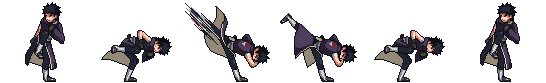
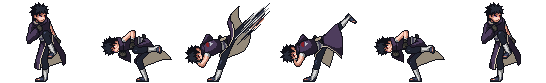
Obito up-attack: flip mirrored kick sprite to face right (matches engine facing convention)
obito_up_uniform.png was authored facing LEFT while all his other sheets face
right, so the up-attack kick rendered reversed vs his facing in BOTH directions
(hitbox was already correct). Flipped each of the 6 frame cells horizontally in
place (order/dimensions preserved) so it faces right like the rest of his kit.

diff --git a/index.html b/index.html
@@ -1,7 +1,7 @@
 <!DOCTYPE html>
 
 <html lang="en">
-///<head>
+/<head>
     <meta charset="UTF-8">
 
     <!-- Mobile -->
@@ -261,151 +261,151 @@
     <script type="importmap">
     {
       "imports": {
-            "./abilities.js": "./abilities.js?v=5b558e2f7b",
-            "./account.js": "./account.js?v=5b558e2f7b",
-            "./ai.js": "./ai.js?v=5b558e2f7b",
-            "./aiTemplates.js": "./aiTemplates.js?v=5b558e2f7b",
-            "./alt_sukunaVoice.js": "./alt_sukunaVoice.js?v=5b558e2f7b",
-            "./animation.js": "./animation.js?v=5b558e2f7b",
-            "./animationProfile.js": "./animationProfile.js?v=5b558e2f7b",
-            "./arcade.js": "./arcade.js?v=5b558e2f7b",
-            "./batmanDarkKnightCinematic.js": "./batmanDarkKnightCinematic.js?v=5b558e2f7b",
-            "./batmanVoice.js": "./batmanVoice.js?v=5b558e2f7b",
-            "./beerusKiBallCinematic.js": "./beerusKiBallCinematic.js?v=5b558e2f7b",
-            "./ben10OmnitrixCinematic.js": "./ben10OmnitrixCinematic.js?v=5b558e2f7b",
-            "./bindingvow.js": "./bindingvow.js?v=5b558e2f7b",
-            "./borutoVoice.js": "./borutoVoice.js?v=5b558e2f7b",
-            "./camera.js": "./camera.js?v=5b558e2f7b",
-            "./challenges.js": "./challenges.js?v=5b558e2f7b",
-            "./characters.js": "./characters.js?v=5b558e2f7b",
-            "./chrolloSkillHunterCinematic.js": "./chrolloSkillHunterCinematic.js?v=5b558e2f7b",
-            "./chrolloVoice.js": "./chrolloVoice.js?v=5b558e2f7b",
-            "./combat.js": "./combat.js?v=5b558e2f7b",
-            "./comboStandard.js": "./comboStandard.js?v=5b558e2f7b",
-            "./credits.js": "./credits.js?v=5b558e2f7b",
-            "./cubeTrap.js": "./cubeTrap.js?v=5b558e2f7b",
-            "./domains.js": "./domains.js?v=5b558e2f7b",
-            "./effects.js": "./effects.js?v=5b558e2f7b",
-            "./endings.js": "./endings.js?v=5b558e2f7b",
-            "./fighters.js": "./fighters.js?v=5b558e2f7b",
-            "./flashReverseVoice.js": "./flashReverseVoice.js?v=5b558e2f7b",
-            "./flashTimeCinematic.js": "./flashTimeCinematic.js?v=5b558e2f7b",
-            "./flashVoice.js": "./flashVoice.js?v=5b558e2f7b",
-            "./game.js": "./game.js?v=5b558e2f7b",
-            "./ghostfaceFinalActCinematic.js": "./ghostfaceFinalActCinematic.js?v=5b558e2f7b",
-            "./ghostfaceVariantKit.js": "./ghostfaceVariantKit.js?v=5b558e2f7b",
-            "./ghostfaceVoice.js": "./ghostfaceVoice.js?v=5b558e2f7b",
-            "./gojoVoice.js": "./gojoVoice.js?v=5b558e2f7b",
-            "./gokuBlackSwordCinematic.js": "./gokuBlackSwordCinematic.js?v=5b558e2f7b",
-            "./goldSamuraiRangerVoice.js": "./goldSamuraiRangerVoice.js?v=5b558e2f7b",
-            "./gonAdultFormCinematic.js": "./gonAdultFormCinematic.js?v=5b558e2f7b",
-            "./gonVoice.js": "./gonVoice.js?v=5b558e2f7b",
-            "./harness/alt_skin_manifest.mjs": "./harness/alt_skin_manifest.mjs?v=5b558e2f7b",
-            "./hashiramaSealingJutsuCinematic.js": "./hashiramaSealingJutsuCinematic.js?v=5b558e2f7b",
-            "./hashiramaVoice.js": "./hashiramaVoice.js?v=5b558e2f7b",
-            "./hiruzenVoice.js": "./hiruzenVoice.js?v=5b558e2f7b",
-            "./hisokaOverdriveCinematic.js": "./hisokaOverdriveCinematic.js?v=5b558e2f7b",
-            "./hisokaVoice.js": "./hisokaVoice.js?v=5b558e2f7b",
-            "./ichigoGetsugaTenshoCinematic.js": "./ichigoGetsugaTenshoCinematic.js?v=5b558e2f7b",
-            "./ichigoVoice.js": "./ichigoVoice.js?v=5b558e2f7b",
-            "./inosukeBeastCinematic.js": "./inosukeBeastCinematic.js?v=5b558e2f7b",
-            "./inosukeVoice.js": "./inosukeVoice.js?v=5b558e2f7b",
-            "./input.js": "./input.js?v=5b558e2f7b",
-            "./isshikiVoice.js": "./isshikiVoice.js?v=5b558e2f7b",
-            "./itachiVoice.js": "./itachiVoice.js?v=5b558e2f7b",
-            "./jasonVoice.js": "./jasonVoice.js?v=5b558e2f7b",
-            "./kibaVoice.js": "./kibaVoice.js?v=5b558e2f7b",
-            "./killuaGodspeedCinematic.js": "./killuaGodspeedCinematic.js?v=5b558e2f7b",
-            "./killuaVoice.js": "./killuaVoice.js?v=5b558e2f7b",
-            "./kits.js": "./kits.js?v=5b558e2f7b",
-            "./kurama.js": "./kurama.js?v=5b558e2f7b",
-            "./lightVoice.js": "./lightVoice.js?v=5b558e2f7b",
-            "./madaraTengaiShinseiCinematic.js": "./madaraTengaiShinseiCinematic.js?v=5b558e2f7b",
-            "./madaraVoice.js": "./madaraVoice.js?v=5b558e2f7b",
-            "./makiShibuyaCinematic.js": "./makiShibuyaCinematic.js?v=5b558e2f7b",
-            "./makiVoice.js": "./makiVoice.js?v=5b558e2f7b",
-            "./mangekyouCinematic.js": "./mangekyouCinematic.js?v=5b558e2f7b",
-            "./matchEntryTransition.js": "./matchEntryTransition.js?v=5b558e2f7b",
-            "./matchflow.js": "./matchflow.js?v=5b558e2f7b",
-            "./mayuriVoice.js": "./mayuriVoice.js?v=5b558e2f7b",
-            "./minatoKurama.js": "./minatoKurama.js?v=5b558e2f7b",
-            "./minatoVoice.js": "./minatoVoice.js?v=5b558e2f7b",
-            "./miwaUltimateCinematic.js": "./miwaUltimateCinematic.js?v=5b558e2f7b",
-            "./miwaVoice.js": "./miwaVoice.js?v=5b558e2f7b",
-            "./motionInput.js": "./motionInput.js?v=5b558e2f7b",
-            "./moveset.js": "./moveset.js?v=5b558e2f7b",
-            "./musicLibrary.js": "./musicLibrary.js?v=5b558e2f7b",
-            "./musicPersonality.js": "./musicPersonality.js?v=5b558e2f7b",
-            "./naoyaVoice.js": "./naoyaVoice.js?v=5b558e2f7b",
-            "./nezukoVoice.js": "./nezukoVoice.js?v=5b558e2f7b",
-            "./obitoDimension.js": "./obitoDimension.js?v=5b558e2f7b",
-            "./obitoJuubiCinematic.js": "./obitoJuubiCinematic.js?v=5b558e2f7b",
-            "./obitoVoice.js": "./obitoVoice.js?v=5b558e2f7b",
-            "./omnimanBodySlamCinematic.js": "./omnimanBodySlamCinematic.js?v=5b558e2f7b",
-            "./omnimanVoice.js": "./omnimanVoice.js?v=5b558e2f7b",
-            "./orochimaruVoice.js": "./orochimaruVoice.js?v=5b558e2f7b",
-            "./painChibakuTenseiCinematic.js": "./painChibakuTenseiCinematic.js?v=5b558e2f7b",
-            "./painVoice.js": "./painVoice.js?v=5b558e2f7b",
-            "./personality.js": "./personality.js?v=5b558e2f7b",
-            "./physics.js": "./physics.js?v=5b558e2f7b",
-            "./platforms.js": "./platforms.js?v=5b558e2f7b",
-            "./player.js": "./player.js?v=5b558e2f7b",
-            "./pool.js": "./pool.js?v=5b558e2f7b",
-            "./preloadManifest.js": "./preloadManifest.js?v=5b558e2f7b",
-            "./progression.js": "./progression.js?v=5b558e2f7b",
-            "./projectiles.js": "./projectiles.js?v=5b558e2f7b",
-            "./redRangerPowerSwordCinematic.js": "./redRangerPowerSwordCinematic.js?v=5b558e2f7b",
-            "./rengokuFlameExplosionCinematic.js": "./rengokuFlameExplosionCinematic.js?v=5b558e2f7b",
-            "./rengokuVoice.js": "./rengokuVoice.js?v=5b558e2f7b",
-            "./replay.js": "./replay.js?v=5b558e2f7b",
-            "./rickVoice.js": "./rickVoice.js?v=5b558e2f7b",
-            "./riftTransition.js": "./riftTransition.js?v=5b558e2f7b",
-            "./rng.js": "./rng.js?v=5b558e2f7b",
-            "./roster.js": "./roster.js?v=5b558e2f7b",
-            "./saikiVoice.js": "./saikiVoice.js?v=5b558e2f7b",
-            "./saitamaVoice.js": "./saitamaVoice.js?v=5b558e2f7b",
-            "./samuraiFlameSmasherCinematic.js": "./samuraiFlameSmasherCinematic.js?v=5b558e2f7b",
-            "./samuraiRedVoice.js": "./samuraiRedVoice.js?v=5b558e2f7b",
-            "./sasukeCinematic.js": "./sasukeCinematic.js?v=5b558e2f7b",
-            "./session.js": "./session.js?v=5b558e2f7b",
-            "./shinobuButterflyCinematic.js": "./shinobuButterflyCinematic.js?v=5b558e2f7b",
-            "./shinobuVoice.js": "./shinobuVoice.js?v=5b558e2f7b",
-            "./skins.js": "./skins.js?v=5b558e2f7b",
-            "./sound.js": "./sound.js?v=5b558e2f7b",
-            "./spectator.js": "./spectator.js?v=5b558e2f7b",
-            "./spidermanVoice.js": "./spidermanVoice.js?v=5b558e2f7b",
-            "./sprite.js": "./sprite.js?v=5b558e2f7b",
-            "./spritesheets.js": "./spritesheets.js?v=5b558e2f7b",
-            "./ssjRoseCinematic.js": "./ssjRoseCinematic.js?v=5b558e2f7b",
-            "./stageHazards.js": "./stageHazards.js?v=5b558e2f7b",
-            "./story.js": "./story.js?v=5b558e2f7b",
-            "./storyProgress.js": "./storyProgress.js?v=5b558e2f7b",
-            "./sukunaVoice.js": "./sukunaVoice.js?v=5b558e2f7b",
-            "./summons.js": "./summons.js?v=5b558e2f7b",
-            "./supermanUltimateCinematic.js": "./supermanUltimateCinematic.js?v=5b558e2f7b",
-            "./supermanVoice.js": "./supermanVoice.js?v=5b558e2f7b",
-            "./theme.js": "./theme.js?v=5b558e2f7b",
-            "./tobiNineTailsCinematic.js": "./tobiNineTailsCinematic.js?v=5b558e2f7b",
-            "./tobiVoice.js": "./tobiVoice.js?v=5b558e2f7b",
-            "./tobiramaEdoTenseiCinematic.js": "./tobiramaEdoTenseiCinematic.js?v=5b558e2f7b",
-            "./tobiramaVoice.js": "./tobiramaVoice.js?v=5b558e2f7b",
-            "./tojiFlyHeadsSwarm.js": "./tojiFlyHeadsSwarm.js?v=5b558e2f7b",
-            "./tojiReincarnationCinematic.js": "./tojiReincarnationCinematic.js?v=5b558e2f7b",
-            "./tojiVoice.js": "./tojiVoice.js?v=5b558e2f7b",
-            "./transformations.js": "./transformations.js?v=5b558e2f7b",
-            "./ui.js": "./ui.js?v=5b558e2f7b",
-            "./unlocks.js": "./unlocks.js?v=5b558e2f7b",
-            "./vegetaFinalFlashCinematic.js": "./vegetaFinalFlashCinematic.js?v=5b558e2f7b",
-            "./vegetaVoice.js": "./vegetaVoice.js?v=5b558e2f7b",
-            "./yamamotoVoice.js": "./yamamotoVoice.js?v=5b558e2f7b",
-            "./yujiUltimateCinematic.js": "./yujiUltimateCinematic.js?v=5b558e2f7b",
-            "./yujiVoice.js": "./yujiVoice.js?v=5b558e2f7b",
-            "./zarakiVoice.js": "./zarakiVoice.js?v=5b558e2f7b",
-            "./zenitsuVoice.js": "./zenitsuVoice.js?v=5b558e2f7b"
+            "./abilities.js": "./abilities.js?v=91237e7d96",
+            "./account.js": "./account.js?v=91237e7d96",
+            "./ai.js": "./ai.js?v=91237e7d96",
+            "./aiTemplates.js": "./aiTemplates.js?v=91237e7d96",
+            "./alt_sukunaVoice.js": "./alt_sukunaVoice.js?v=91237e7d96",
+            "./animation.js": "./animation.js?v=91237e7d96",
+            "./animationProfile.js": "./animationProfile.js?v=91237e7d96",
+            "./arcade.js": "./arcade.js?v=91237e7d96",
+            "./batmanDarkKnightCinematic.js": "./batmanDarkKnightCinematic.js?v=91237e7d96",
+            "./batmanVoice.js": "./batmanVoice.js?v=91237e7d96",
+            "./beerusKiBallCinematic.js": "./beerusKiBallCinematic.js?v=91237e7d96",
+            "./ben10OmnitrixCinematic.js": "./ben10OmnitrixCinematic.js?v=91237e7d96",
+            "./bindingvow.js": "./bindingvow.js?v=91237e7d96",
+            "./borutoVoice.js": "./borutoVoice.js?v=91237e7d96",
+            "./camera.js": "./camera.js?v=91237e7d96",
+            "./challenges.js": "./challenges.js?v=91237e7d96",
+            "./characters.js": "./characters.js?v=91237e7d96",
+            "./chrolloSkillHunterCinematic.js": "./chrolloSkillHunterCinematic.js?v=91237e7d96",
+            "./chrolloVoice.js": "./chrolloVoice.js?v=91237e7d96",
+            "./combat.js": "./combat.js?v=91237e7d96",
+            "./comboStandard.js": "./comboStandard.js?v=91237e7d96",
+            "./credits.js": "./credits.js?v=91237e7d96",
+            "./cubeTrap.js": "./cubeTrap.js?v=91237e7d96",
+            "./domains.js": "./domains.js?v=91237e7d96",
+            "./effects.js": "./effects.js?v=91237e7d96",
+            "./endings.js": "./endings.js?v=91237e7d96",
+            "./fighters.js": "./fighters.js?v=91237e7d96",
+            "./flashReverseVoice.js": "./flashReverseVoice.js?v=91237e7d96",
+            "./flashTimeCinematic.js": "./flashTimeCinematic.js?v=91237e7d96",
+            "./flashVoice.js": "./flashVoice.js?v=91237e7d96",
+            "./game.js": "./game.js?v=91237e7d96",
+            "./ghostfaceFinalActCinematic.js": "./ghostfaceFinalActCinematic.js?v=91237e7d96",
+            "./ghostfaceVariantKit.js": "./ghostfaceVariantKit.js?v=91237e7d96",
+            "./ghostfaceVoice.js": "./ghostfaceVoice.js?v=91237e7d96",
+            "./gojoVoice.js": "./gojoVoice.js?v=91237e7d96",
+            "./gokuBlackSwordCinematic.js": "./gokuBlackSwordCinematic.js?v=91237e7d96",
+            "./goldSamuraiRangerVoice.js": "./goldSamuraiRangerVoice.js?v=91237e7d96",
+            "./gonAdultFormCinematic.js": "./gonAdultFormCinematic.js?v=91237e7d96",
+            "./gonVoice.js": "./gonVoice.js?v=91237e7d96",
+            "./harness/alt_skin_manifest.mjs": "./harness/alt_skin_manifest.mjs?v=91237e7d96",
+            "./hashiramaSealingJutsuCinematic.js": "./hashiramaSealingJutsuCinematic.js?v=91237e7d96",
+            "./hashiramaVoice.js": "./hashiramaVoice.js?v=91237e7d96",
+            "./hiruzenVoice.js": "./hiruzenVoice.js?v=91237e7d96",
+            "./hisokaOverdriveCinematic.js": "./hisokaOverdriveCinematic.js?v=91237e7d96",
+            "./hisokaVoice.js": "./hisokaVoice.js?v=91237e7d96",
+            "./ichigoGetsugaTenshoCinematic.js": "./ichigoGetsugaTenshoCinematic.js?v=91237e7d96",
+            "./ichigoVoice.js": "./ichigoVoice.js?v=91237e7d96",
+            "./inosukeBeastCinematic.js": "./inosukeBeastCinematic.js?v=91237e7d96",
+            "./inosukeVoice.js": "./inosukeVoice.js?v=91237e7d96",
+            "./input.js": "./input.js?v=91237e7d96",
+            "./isshikiVoice.js": "./isshikiVoice.js?v=91237e7d96",
+            "./itachiVoice.js": "./itachiVoice.js?v=91237e7d96",
+            "./jasonVoice.js": "./jasonVoice.js?v=91237e7d96",
+            "./kibaVoice.js": "./kibaVoice.js?v=91237e7d96",
+            "./killuaGodspeedCinematic.js": "./killuaGodspeedCinematic.js?v=91237e7d96",
+            "./killuaVoice.js": "./killuaVoice.js?v=91237e7d96",
+            "./kits.js": "./kits.js?v=91237e7d96",
+            "./kurama.js": "./kurama.js?v=91237e7d96",
+            "./lightVoice.js": "./lightVoice.js?v=91237e7d96",
+            "./madaraTengaiShinseiCinematic.js": "./madaraTengaiShinseiCinematic.js?v=91237e7d96",
+            "./madaraVoice.js": "./madaraVoice.js?v=91237e7d96",
+            "./makiShibuyaCinematic.js": "./makiShibuyaCinematic.js?v=91237e7d96",
+            "./makiVoice.js": "./makiVoice.js?v=91237e7d96",
+            "./mangekyouCinematic.js": "./mangekyouCinematic.js?v=91237e7d96",
+            "./matchEntryTransition.js": "./matchEntryTransition.js?v=91237e7d96",
+            "./matchflow.js": "./matchflow.js?v=91237e7d96",
+            "./mayuriVoice.js": "./mayuriVoice.js?v=91237e7d96",
+            "./minatoKurama.js": "./minatoKurama.js?v=91237e7d96",
+            "./minatoVoice.js": "./minatoVoice.js?v=91237e7d96",
+            "./miwaUltimateCinematic.js": "./miwaUltimateCinematic.js?v=91237e7d96",
+            "./miwaVoice.js": "./miwaVoice.js?v=91237e7d96",
+            "./motionInput.js": "./motionInput.js?v=91237e7d96",
+            "./moveset.js": "./moveset.js?v=91237e7d96",
+            "./musicLibrary.js": "./musicLibrary.js?v=91237e7d96",
+            "./musicPersonality.js": "./musicPersonality.js?v=91237e7d96",
+            "./naoyaVoice.js": "./naoyaVoice.js?v=91237e7d96",
+            "./nezukoVoice.js": "./nezukoVoice.js?v=91237e7d96",
+            "./obitoDimension.js": "./obitoDimension.js?v=91237e7d96",
+            "./obitoJuubiCinematic.js": "./obitoJuubiCinematic.js?v=91237e7d96",
+            "./obitoVoice.js": "./obitoVoice.js?v=91237e7d96",
+            "./omnimanBodySlamCinematic.js": "./omnimanBodySlamCinematic.js?v=91237e7d96",
+            "./omnimanVoice.js": "./omnimanVoice.js?v=91237e7d96",
+            "./orochimaruVoice.js": "./orochimaruVoice.js?v=91237e7d96",
+            "./painChibakuTenseiCinematic.js": "./painChibakuTenseiCinematic.js?v=91237e7d96",
+            "./painVoice.js": "./painVoice.js?v=91237e7d96",
+            "./personality.js": "./personality.js?v=91237e7d96",
+            "./physics.js": "./physics.js?v=91237e7d96",
+            "./platforms.js": "./platforms.js?v=91237e7d96",
+            "./player.js": "./player.js?v=91237e7d96",
+            "./pool.js": "./pool.js?v=91237e7d96",
+            "./preloadManifest.js": "./preloadManifest.js?v=91237e7d96",
+            "./progression.js": "./progression.js?v=91237e7d96",
+            "./projectiles.js": "./projectiles.js?v=91237e7d96",
+            "./redRangerPowerSwordCinematic.js": "./redRangerPowerSwordCinematic.js?v=91237e7d96",
+            "./rengokuFlameExplosionCinematic.js": "./rengokuFlameExplosionCinematic.js?v=91237e7d96",
+            "./rengokuVoice.js": "./rengokuVoice.js?v=91237e7d96",
+            "./replay.js": "./replay.js?v=91237e7d96",
+            "./rickVoice.js": "./rickVoice.js?v=91237e7d96",
+            "./riftTransition.js": "./riftTransition.js?v=91237e7d96",
+            "./rng.js": "./rng.js?v=91237e7d96",
+            "./roster.js": "./roster.js?v=91237e7d96",
+            "./saikiVoice.js": "./saikiVoice.js?v=91237e7d96",
+            "./saitamaVoice.js": "./saitamaVoice.js?v=91237e7d96",
+            "./samuraiFlameSmasherCinematic.js": "./samuraiFlameSmasherCinematic.js?v=91237e7d96",
+            "./samuraiRedVoice.js": "./samuraiRedVoice.js?v=91237e7d96",
+            "./sasukeCinematic.js": "./sasukeCinematic.js?v=91237e7d96",
+            "./session.js": "./session.js?v=91237e7d96",
+            "./shinobuButterflyCinematic.js": "./shinobuButterflyCinematic.js?v=91237e7d96",
+            "./shinobuVoice.js": "./shinobuVoice.js?v=91237e7d96",
+            "./skins.js": "./skins.js?v=91237e7d96",
+            "./sound.js": "./sound.js?v=91237e7d96",
+            "./spectator.js": "./spectator.js?v=91237e7d96",
+            "./spidermanVoice.js": "./spidermanVoice.js?v=91237e7d96",
+            "./sprite.js": "./sprite.js?v=91237e7d96",
+            "./spritesheets.js": "./spritesheets.js?v=91237e7d96",
+            "./ssjRoseCinematic.js": "./ssjRoseCinematic.js?v=91237e7d96",
+            "./stageHazards.js": "./stageHazards.js?v=91237e7d96",
+            "./story.js": "./story.js?v=91237e7d96",
+            "./storyProgress.js": "./storyProgress.js?v=91237e7d96",
+            "./sukunaVoice.js": "./sukunaVoice.js?v=91237e7d96",
+            "./summons.js": "./summons.js?v=91237e7d96",
+            "./supermanUltimateCinematic.js": "./supermanUltimateCinematic.js?v=91237e7d96",
+            "./supermanVoice.js": "./supermanVoice.js?v=91237e7d96",
+            "./theme.js": "./theme.js?v=91237e7d96",
+            "./tobiNineTailsCinematic.js": "./tobiNineTailsCinematic.js?v=91237e7d96",
+            "./tobiVoice.js": "./tobiVoice.js?v=91237e7d96",
+            "./tobiramaEdoTenseiCinematic.js": "./tobiramaEdoTenseiCinematic.js?v=91237e7d96",
+            "./tobiramaVoice.js": "./tobiramaVoice.js?v=91237e7d96",
+            "./tojiFlyHeadsSwarm.js": "./tojiFlyHeadsSwarm.js?v=91237e7d96",
+            "./tojiReincarnationCinematic.js": "./tojiReincarnationCinematic.js?v=91237e7d96",
+            "./tojiVoice.js": "./tojiVoice.js?v=91237e7d96",
+            "./transformations.js": "./transformations.js?v=91237e7d96",
+            "./ui.js": "./ui.js?v=91237e7d96",
+            "./unlocks.js": "./unlocks.js?v=91237e7d96",
+            "./vegetaFinalFlashCinematic.js": "./vegetaFinalFlashCinematic.js?v=91237e7d96",
+            "./vegetaVoice.js": "./vegetaVoice.js?v=91237e7d96",
+            "./yamamotoVoice.js": "./yamamotoVoice.js?v=91237e7d96",
+            "./yujiUltimateCinematic.js": "./yujiUltimateCinematic.js?v=91237e7d96",
+            "./yujiVoice.js": "./yujiVoice.js?v=91237e7d96",
+            "./zarakiVoice.js": "./zarakiVoice.js?v=91237e7d96",
+            "./zenitsuVoice.js": "./zenitsuVoice.js?v=91237e7d96"
       }
 }
     </script>
-    <script type="module" src="./game.js?v=5b558e2f7b"></script>
+    <script type="module" src="./game.js?v=91237e7d96"></script>
     <!-- BUILD:MODULES END -->
 
 
